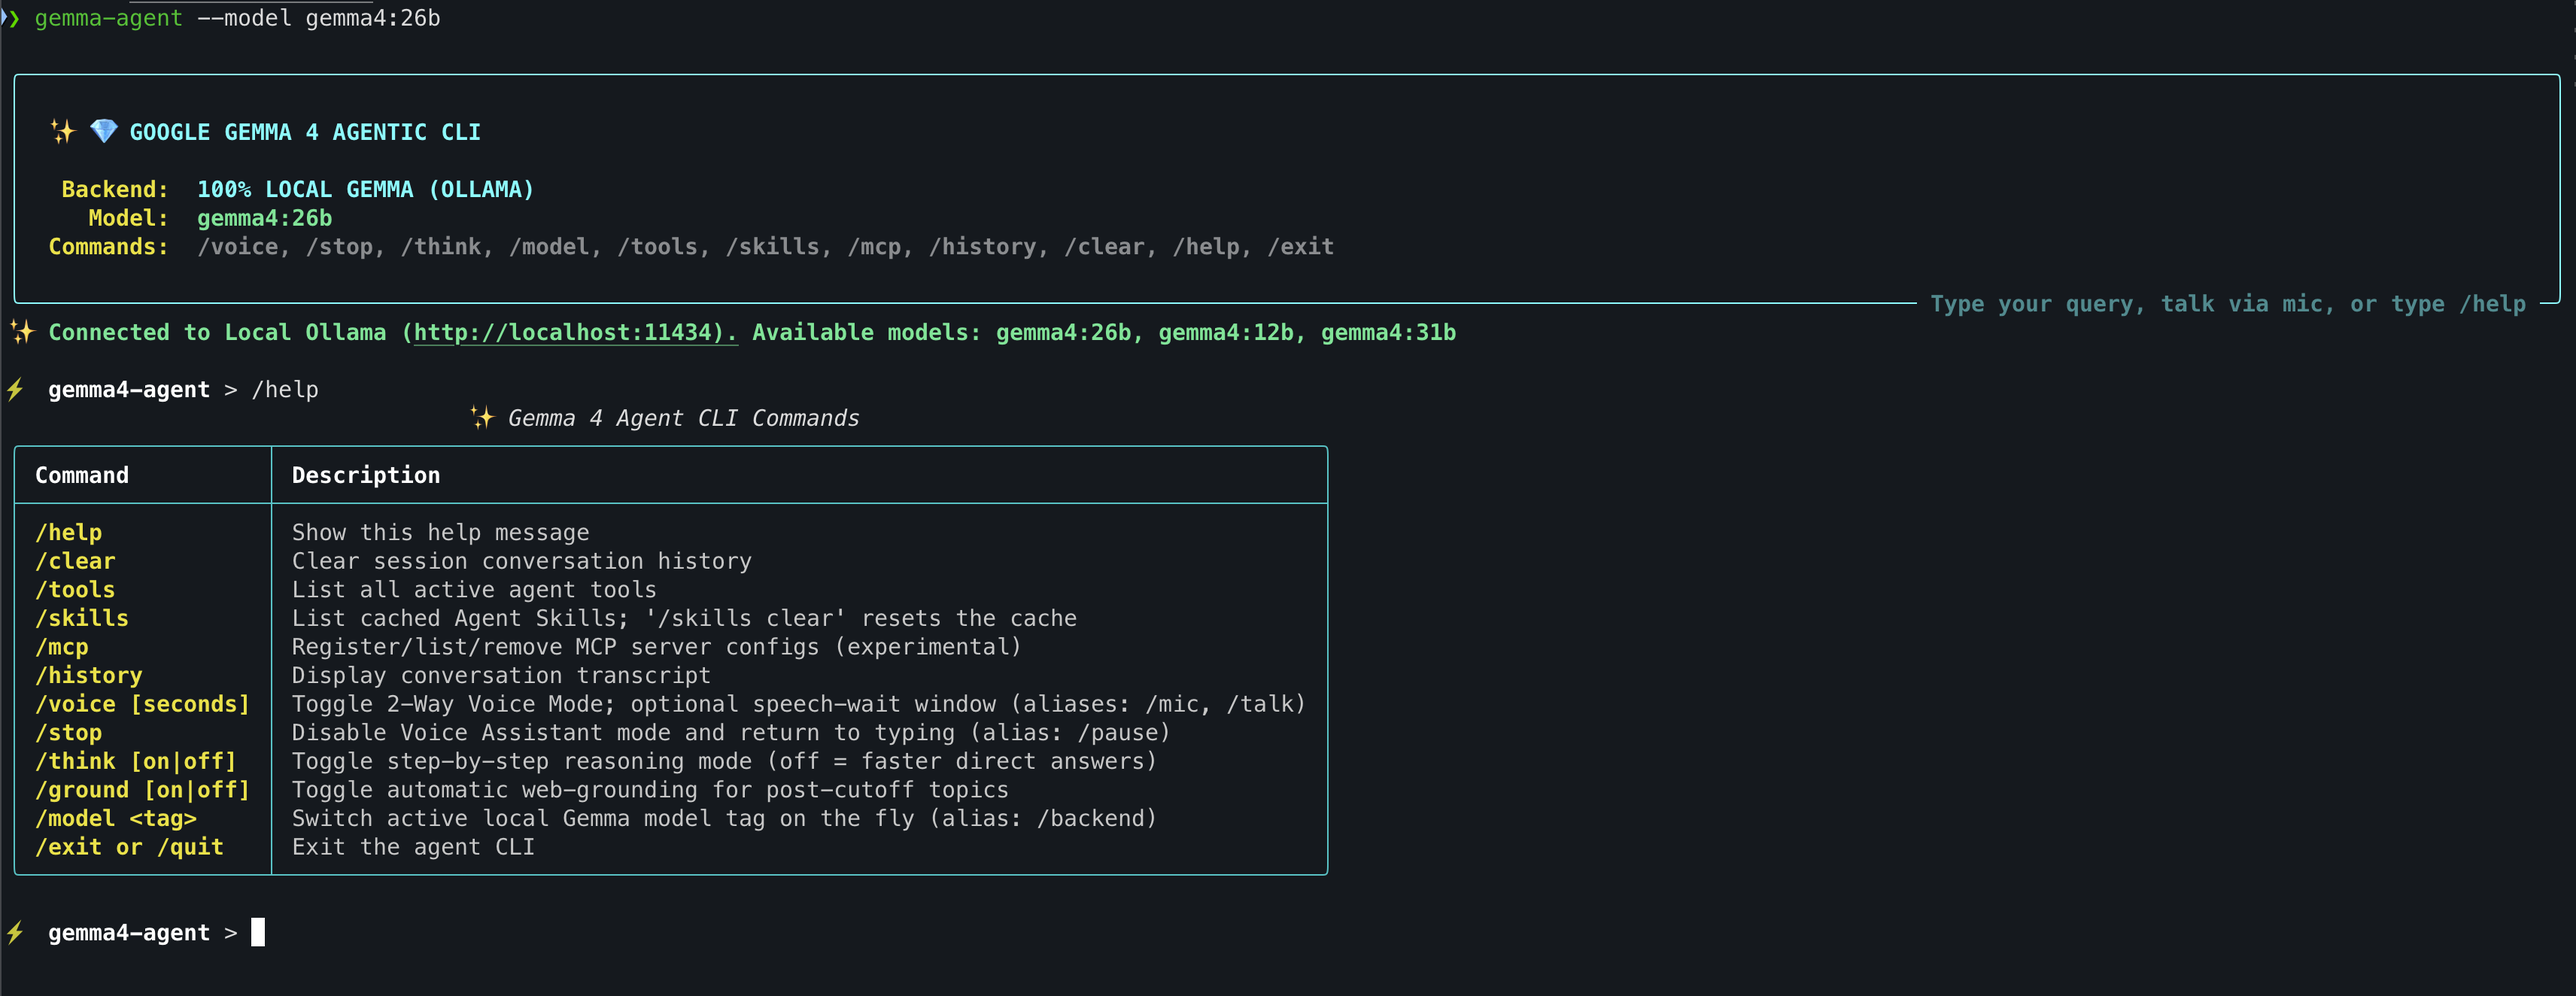
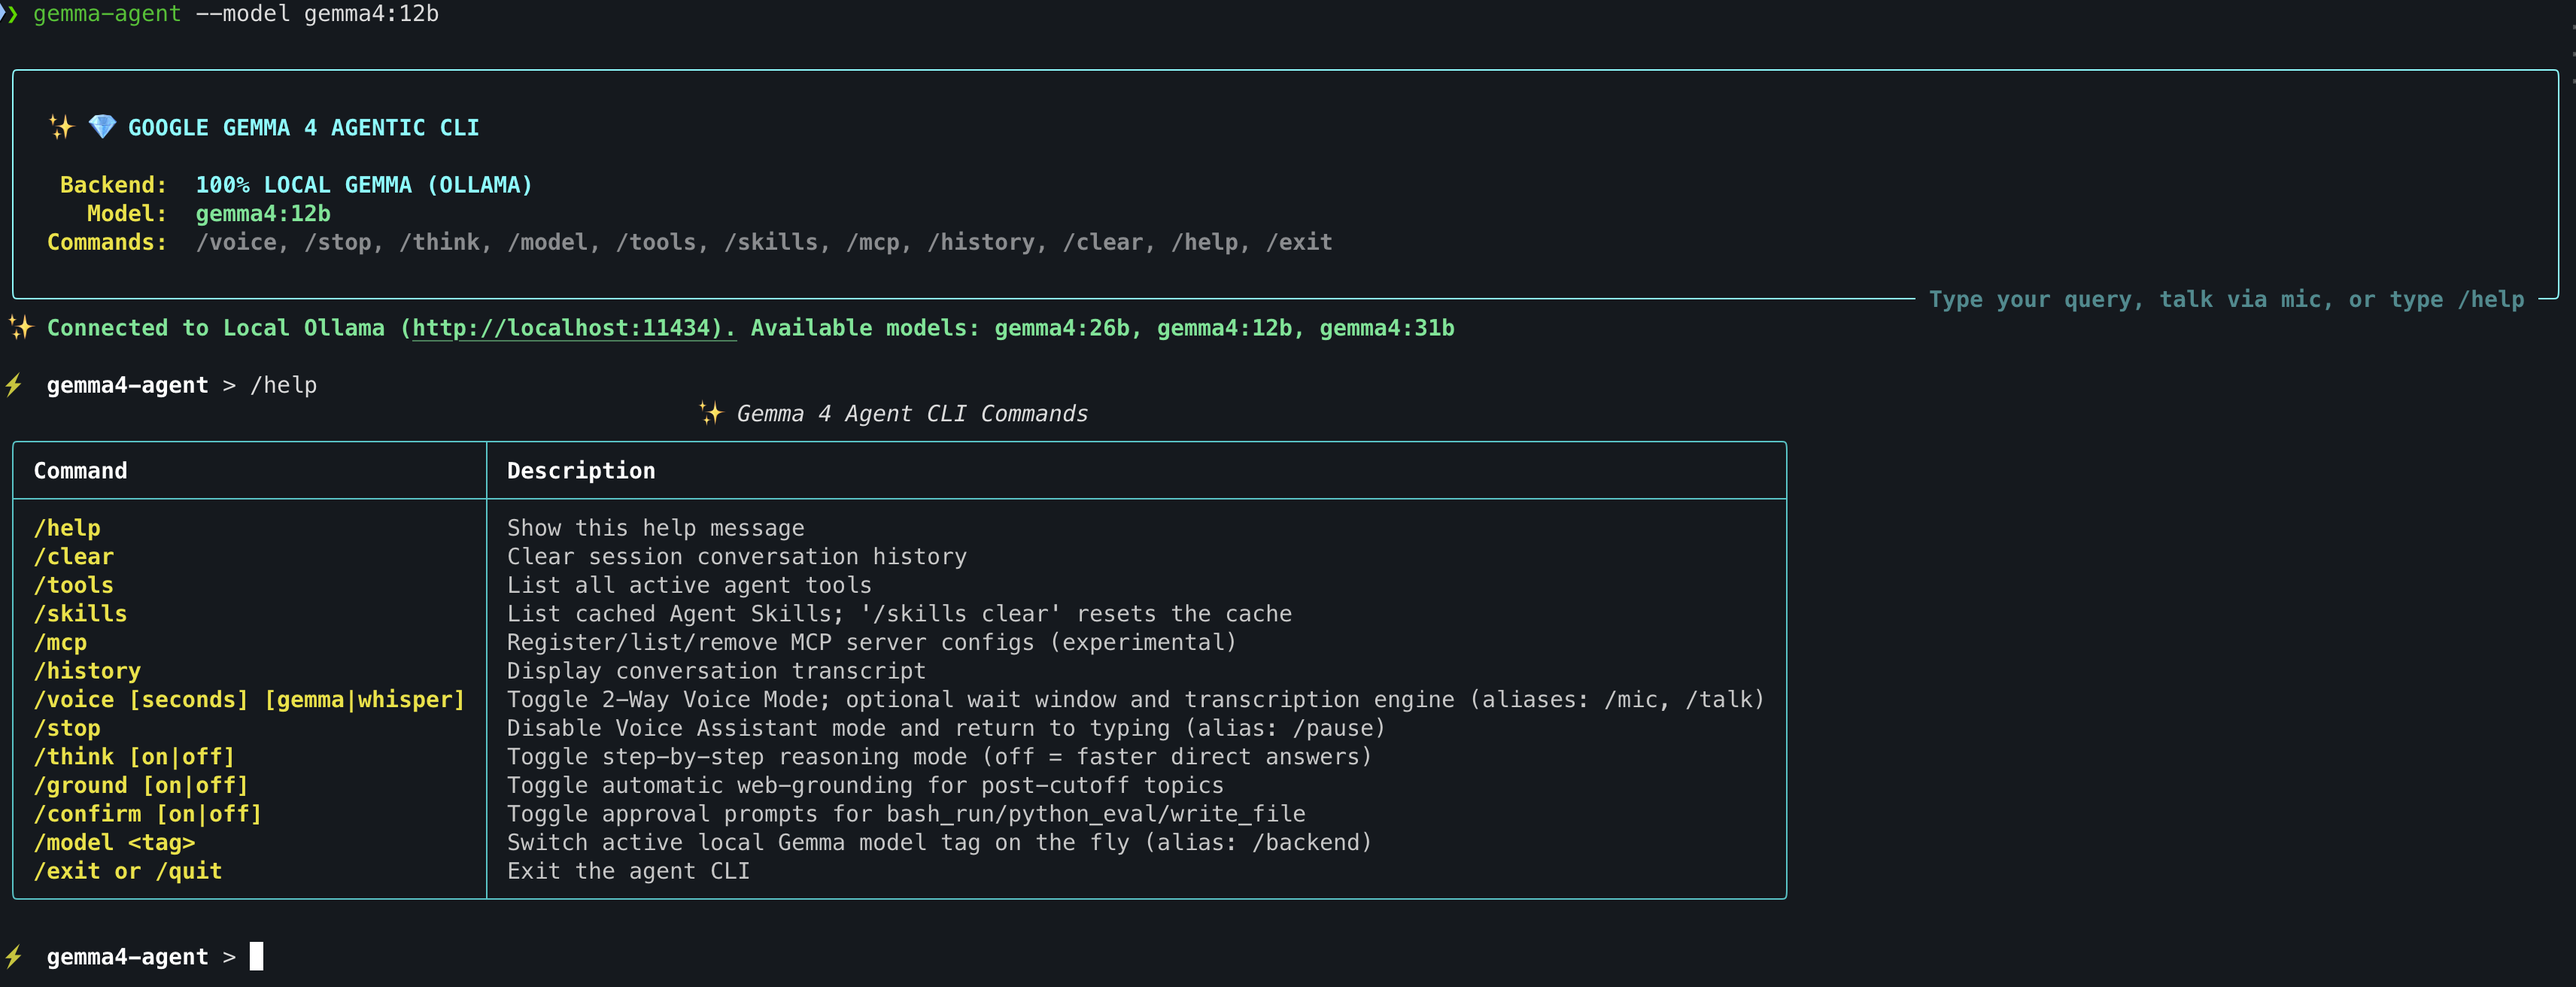
docs: update CLI screenshot with voice engines and confirm command

diff --git a/README.md b/README.md
@@ -19,7 +19,7 @@
 `gemma4-agent` is an open-source, local-first autonomous **multimodal** AI agent for terminal power users, developers, and researchers. Powered by **Google DeepMind's Gemma 4** open models running locally via **Ollama**, it lets you chat, execute terminal tasks, inspect codebases, run scripts, analyze images with Gemma 4's native vision, and talk hands-free (offline speech-to-text in, spoken answers out). **All AI inference and speech processing runs entirely on your machine — no cloud LLM APIs, no API keys, no telemetry.** The optional `web_search`, `web_fetch`, and `fetch_skill` tools access the internet only when explicitly invoked; skip them and the agent is fully offline.
 
 <p align="center">
-  <img src="https://raw.githubusercontent.com/arjunprabhulal/gemma4-agent/main/assets/gemma-agent-cli.png?v=3" alt="gemma4-agent interactive REPL — startup banner and /help command list" width="900">
+  <img src="https://raw.githubusercontent.com/arjunprabhulal/gemma4-agent/main/assets/gemma-agent-cli.png?v=4" alt="gemma4-agent interactive REPL — startup banner and /help command list" width="900">
 </p>
 
 ---
